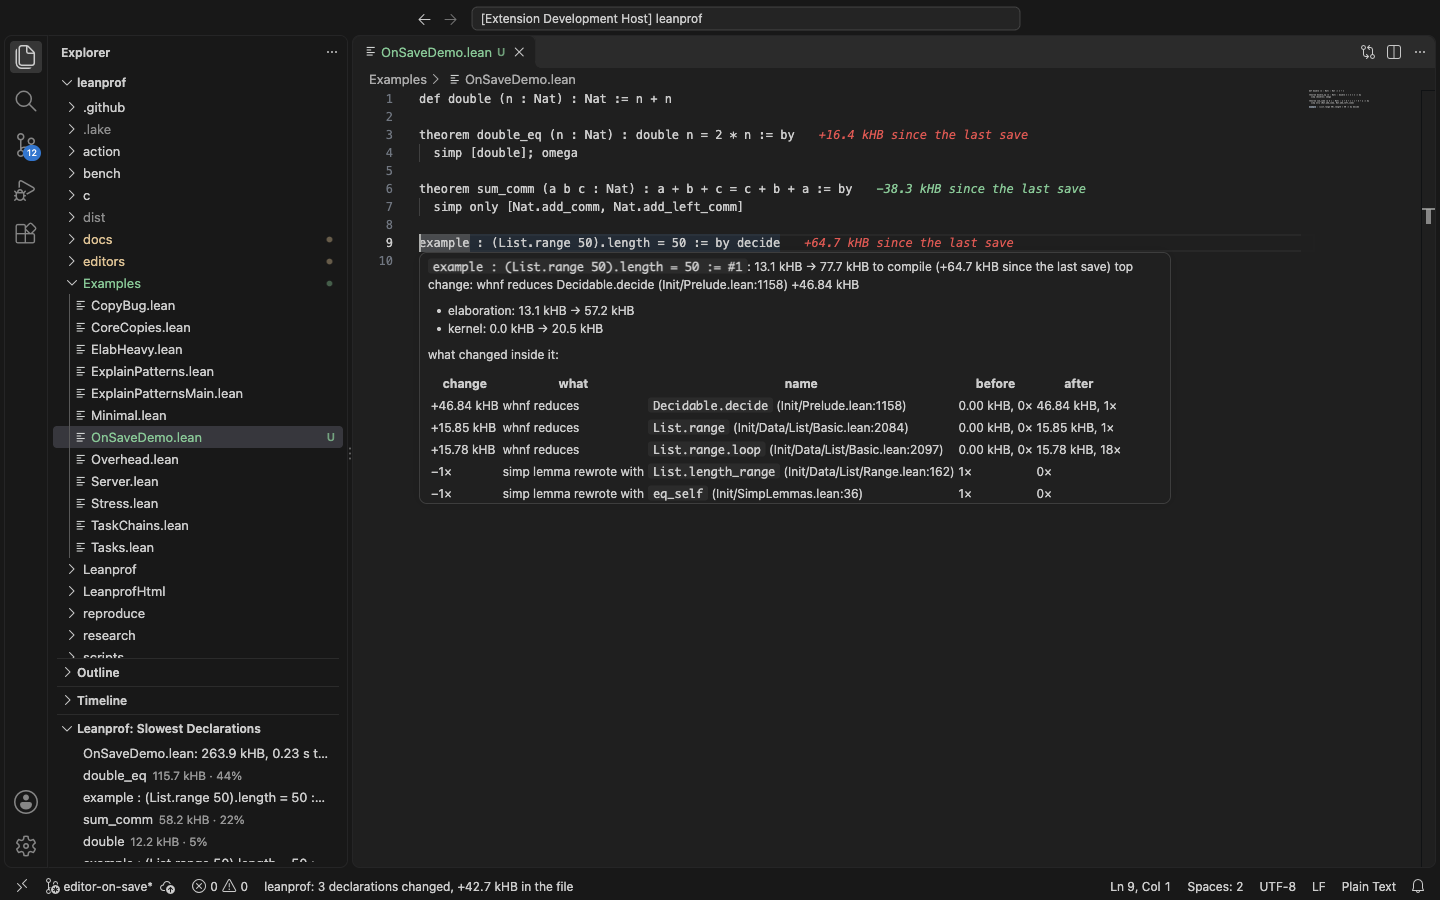
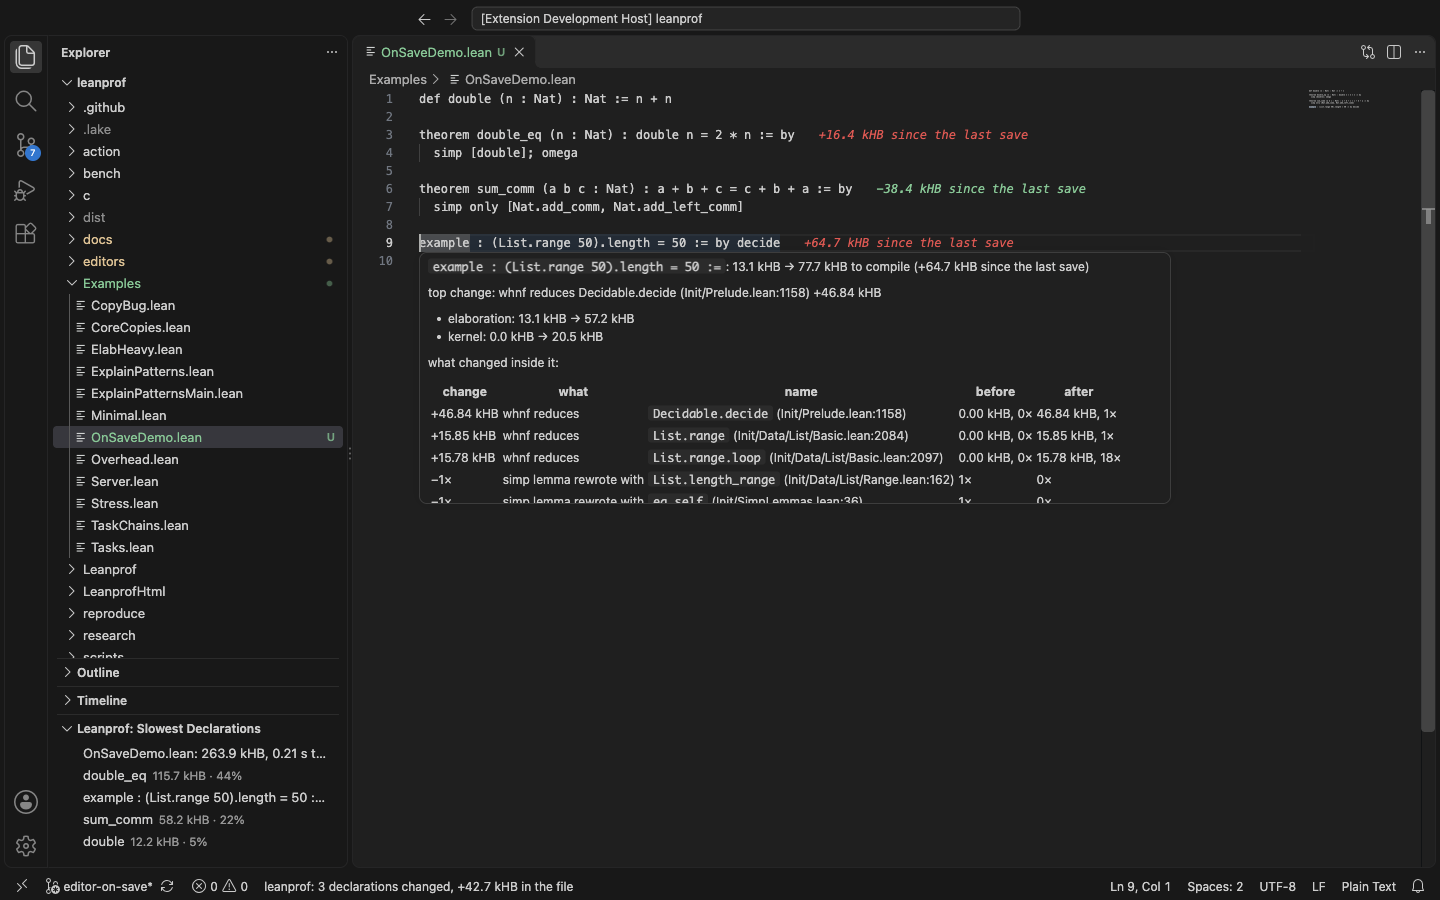
On save: measured latency in the VS Code guide, screenshot with the hover's headline
elab --since-last against plain lake env lean on three leanprof files and
two files of a Mathlib project (median of 3, shared Mac); the CHANGELOG and
editor guide state the saving as measured (0.2-0.45 s; about 0.7 s for a
file outside the package's libraries).

Changed region(s): [[0.2812, 0.28, 0.7812, 0.56], [0.9688, 0.0933, 1.0, 0.8089]]

diff --git a/docs/guide/vscode.md b/docs/guide/vscode.md
@@ -106,12 +106,22 @@ time each profile took. **leanprof: Forget the on-save profiles** starts
 over (the next save is a first profile); **leanprof.onSave.keepBase**
 compares every save with the first instead of the previous one.
 
-How long a profile takes on save (`elab --since-last`, median of 3, Apple
-M5 Max, shared):
+How long a profile takes on save, against plain `lake env lean` on the
+same file (median of 3, Apple M5 Max shared with other work, so a few
+tenths of a second either way):
 
-| file | lines | heartbeats | plain `lean` | `elab --since-last` |
-|---|---|---|---|---|
-| MEASURED | | | | |
+| file | lines | heartbeats | `lake env lean` | `elab --heartbeats` | `elab --heartbeats --since-last` |
+|---|---|---|---|---|---|
+| leanprof `Examples/CopyBug.lean` | 37 | 0.7 M | 0.47 s | 0.63 s | 0.43 s |
+| leanprof `Leanprof/Regress.lean` | 430 | 15 M | 0.67 s | 0.94 s | 0.65 s |
+| leanprof `LeanprofElab.lean` | 1,610 | 95 M | 2.12 s | 2.95 s | 2.60 s |
+| a Mathlib project, `Coin.lean` | 85 | 5 M | 1.66 s | 2.47 s | 2.02 s |
+| a Mathlib project, `Kelly.lean` | 109 | 25 M | 1.79 s | 2.69 s | 2.59 s |
+
+Each save elaborates the whole file in a new process, loading its imports
+(most of the time with Mathlib), where the language server keeps them
+loaded and re-elaborates only from the edit; the profile runs after the
+server has already shown the file's errors.
 
 ## Why is this file slow?
 

diff --git a/CHANGELOG.md b/CHANGELOG.md
@@ -19,7 +19,8 @@ versioning](https://semver.org); a release is a `vX.Y.Z` tag (see
   writes the same difference for any two reports.
 - `elab --since-last` reuses `lake env`'s paths and the setup of a module
   that is not built while the package's configuration, manifest, toolchain
-  and the file's imports are unchanged: about 0.3 s less per run, 0.7 s for
+  and the file's imports are unchanged: 0.2–0.45 s less per run on the files measured
+  ([VS Code guide](docs/guide/vscode.md#on-save)), about 0.7 s for
   a file outside the package's libraries.
 - `#leanprof` shows those differences as hints (`Δ +25.0 kHB since the last
   profile`, `Δ +2,000 copies since the last run`), with the cause in the

diff --git a/docs/guide/editor.md b/docs/guide/editor.md
@@ -58,7 +58,7 @@ build [Array] in build (Foo/Bar.lean:17)`). Without a previous profile it
 says so, and the next run is compared with this one. Each run becomes the
 base of the next (`--keep-base` keeps the first). `elab --since-last` reuses
 `lake env`'s paths and the module's setup while the package's
-configuration and the file's imports are unchanged, which saves 0.3–0.7 s a
+configuration and the file's imports are unchanged, which saves 0.2–0.7 s a
 run, so it can run on every save.
 
 `#leanprof` shows these differences too, as hints at each declaration or
